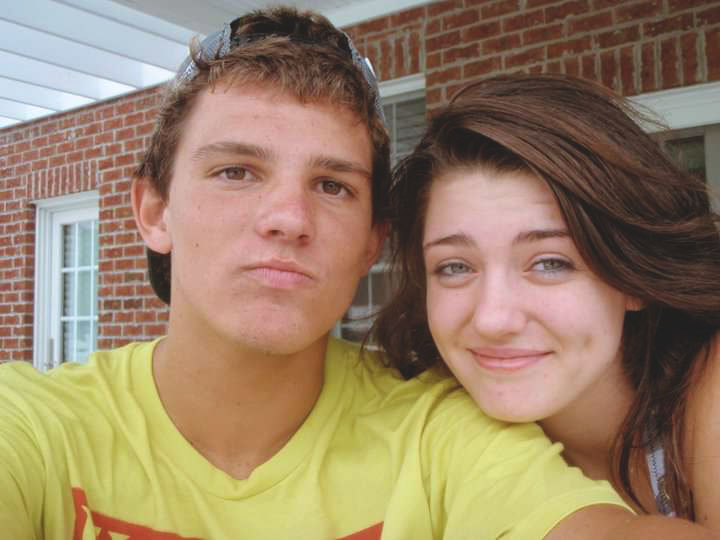
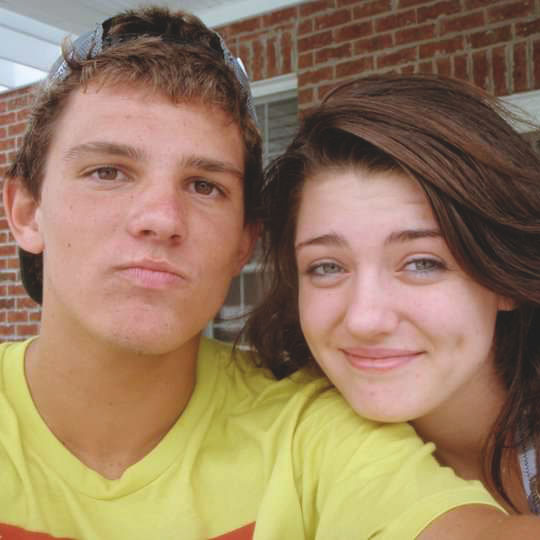
Add a few more pics

diff --git a/src/components/photos.js b/src/components/photos.js
@@ -17,12 +17,16 @@ import img16 from 'assets/pics/14.jpg';
 import img17 from 'assets/pics/15.jpeg';
 import img18 from 'assets/pics/16.jpg';
 import img19 from 'assets/pics/17.jpg';
+import img20 from 'assets/pics/18.jpg';
+import img21 from 'assets/pics/19.jpg';
+import img22 from 'assets/pics/20.jpg';
+import img23 from 'assets/pics/21.jpg';
 
 export const photos = [
     {
         src: img1,
-        width: 4,
-        height: 3,
+        width: 1,
+        height: 1,
     },
     {
         src: img2,
@@ -110,9 +114,24 @@ export const photos = [
         height: 5,
     },
     {
-        src: img19,
-        width: 16,
-        height: 9,
+        src: img20,
+        width: 5,
+        height: 4,
+    },
+    {
+        src: img21,
+        width: 5,
+        height: 7,
+    },
+    {
+        src: img22,
+        width: 4,
+        height: 5,
+    },
+    {
+        src: img23,
+        width: 5,
+        height: 7,
     },
 
 ];

diff --git a/src/components/PhotoGallery.jsx b/src/components/PhotoGallery.jsx
@@ -7,7 +7,7 @@ const PhotoGallery = () => {
     return (
         <div className={styles.root}>
         <h1>Our Story</h1>
-            <Gallery className={styles.root} photos={photos} margin={10}/>
+            <Gallery photos={photos} margin={10}/>
         </div>
     );
 }
